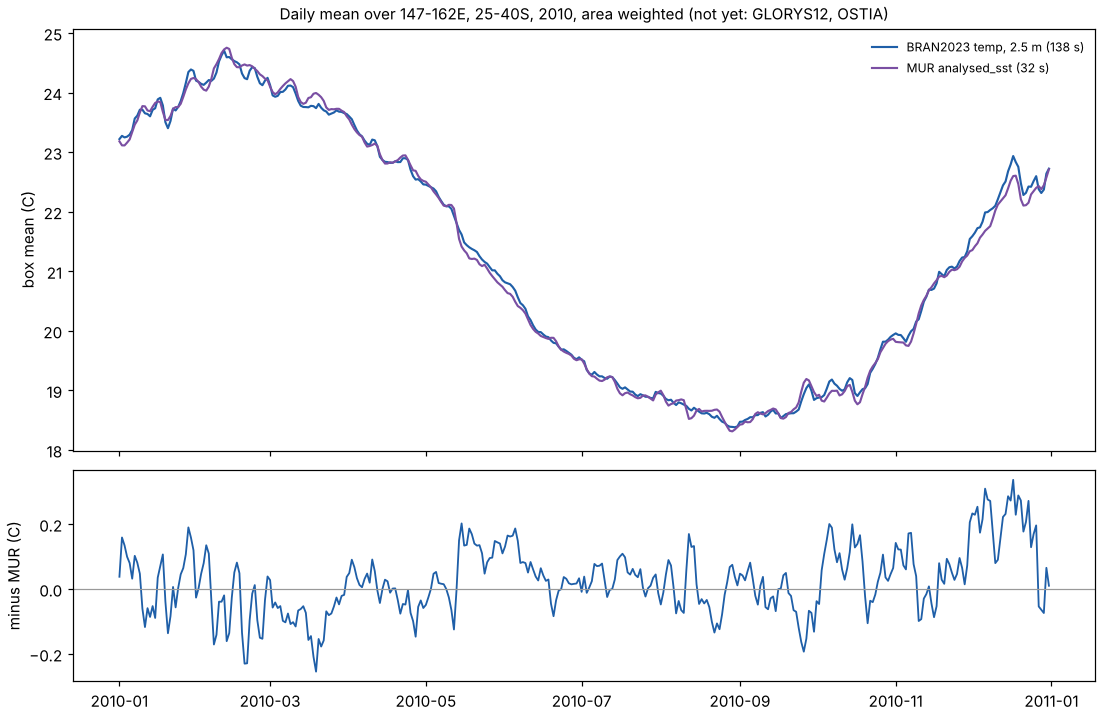
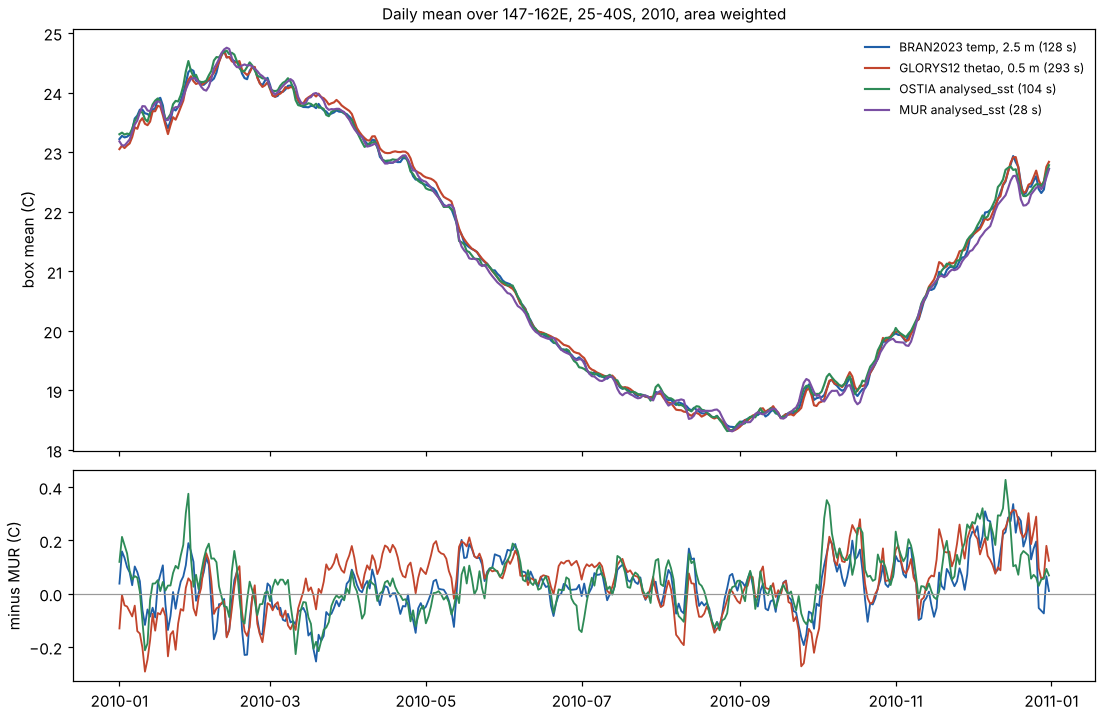
examples/cmems: GLORYS12 and OSTIA measured, live wxy/GDAL check, MUR cross-check
Runs the Copernicus Marine cuts now the ARCO endpoint is reachable.
products.py: GLORYS12 202311's vertical axis is elevation (negative,
deepest first); time decoded with ReadAsArray; one GDAL dataset per
thread (a shared one gave some days other days' values). README: store
facts (403 for absent keys, encodings), live window check identical to
GDAL for thetao, so, zos and OSTIA analysed_sst, three-way comparison
tables, costs, and the MUR cross-check against the GHRSST regional
series.

Claude-Session: https://claude.ai/code/session_01PpVmmiik3fLGUr3hGwSd5f

diff --git a/examples/cmems/products.py b/examples/cmems/products.py
@@ -13,7 +13,7 @@ Every reader returns (values, lon, lat[, depth]) as float32 in degrees C
 (or the variable's own unit), NaN where there is no ocean, with latitude
 increasing.
 """
-import os, re, sys
+import os, re, sys, threading
 from datetime import datetime, timedelta
 
 import numpy as np
@@ -117,24 +117,34 @@ def _times(arr):
     m = re.match(r"(\w+) since (.+)", units)
     step = {"seconds": 1, "minutes": 60, "hours": 3600, "days": 86400}[m.group(1)]
     origin = datetime.fromisoformat(m.group(2).strip().replace("Z", "").split(".")[0])
-    v = arr.Read()
-    return [origin + timedelta(seconds=float(s) * step) for s in np.asarray(v, "f8")]
+    v = np.asarray(arr.ReadAsArray(), "f8")
+    return [origin + timedelta(seconds=float(s) * step) for s in v]
 
 
 def arco(name):
-    """The root group of a Copernicus ARCO store and its coordinates."""
-    if name not in _arco:
+    """The root group of a Copernicus ARCO store and its coordinates, one
+    per thread: a GDAL dataset is not safe to read from two threads at once
+    (shared, a threaded series gets other days' values on some days)."""
+    key = (name, threading.get_ident())
+    if key not in _arco:
         url = CMEMS.get(name, name)
         ds = gdal.OpenEx(f'ZARR:"/vsicurl/{url}"', gdal.OF_MULTIDIM_RASTER)
         g = ds.GetRootGroup()
         co = {"ds": ds, "root": g, "url": url}
+        names = g.GetMDArrayNames()
         for k in ("longitude", "latitude", "depth"):
-            a = g.OpenMDArray(k)
-            if a is not None:
-                co[k] = np.asarray(a.ReadAsArray(), "f8")
+            if k in names:
+                co[k] = np.asarray(g.OpenMDArray(k).ReadAsArray(), "f8")
+        # GLORYS12 (202311) has no depth: its vertical axis is "elevation",
+        # negative and deepest first. Keep depth surface first, and the
+        # store's own axis name for the reads.
+        co["zdim"] = "depth"
+        if "depth" not in co and "elevation" in names:
+            co["depth"] = -np.asarray(g.OpenMDArray("elevation").ReadAsArray(), "f8")[::-1]
+            co["zdim"] = "elevation"
         co["time"] = _times(g.OpenMDArray("time"))
-        _arco[name] = co
-    return _arco[name]
+        _arco[key] = co
+    return _arco[key]
 
 
 def cmems(name, var, day, bbox, z=None):
@@ -147,9 +157,12 @@ def cmems(name, var, day, bbox, z=None):
     x0, x1 = _span(co["longitude"], bbox[0], bbox[1])
     y0, y1 = _span(co["latitude"], bbox[2], bbox[3])
     start, count = [t], [1]
-    if "depth" in dims:
+    zdim = co["zdim"] in dims
+    if zdim:
         z = z or (0, 1)
-        start.append(z[0]); count.append(z[1] - z[0])
+        nz = len(co["depth"])
+        z0 = z[0] if co["zdim"] == "depth" else nz - z[1]
+        start.append(z0); count.append(z[1] - z[0])
     start += [y0, x0]; count += [y1 - y0, x1 - x0]
     v = np.frombuffer(a.Read(array_start_idx=start, count=count,
                              buffer_datatype=gdal.ExtendedDataType.Create(gdal.GDT_Float64)),
@@ -161,7 +174,9 @@ def cmems(name, var, day, bbox, z=None):
     if var == "analysed_sst" and np.nanmean(v) > 200:
         v = v - 273.15
     v = v[0]
+    if zdim and co["zdim"] == "elevation":
+        v = v[::-1]
     lon, lat = co["longitude"][x0:x1], co["latitude"][y0:y1]
-    if "depth" in dims:
+    if zdim:
         return v, lon, lat, co["depth"][z[0]:z[1]]
     return v, lon, lat

diff --git a/examples/cmems/README.md b/examples/cmems/README.md
@@ -1,8 +1,5 @@
 # Four estimates of one sea: Copernicus Marine Zarr beside BRAN and MUR
 
-*Draft. The BRAN2023 and MUR parts below are measured; the Copernicus
-Marine parts are written and wait on network access to their store.*
-
 The Tasman Sea, where the East Australian Current sheds its eddies, is
 estimated daily by at least four public products, each served in a
 different shape:
@@ -11,7 +8,7 @@ different shape:
 |---|---|---|---|
 | BRAN2023 `temp` | CSIRO Bluelink ocean reanalysis, 0.1 degree, 51 levels | netCDF4 on NCI THREDDS, addressed by an mdim-refs byte table | [`../bran/bran_table.py`](../bran/bran_table.py): Parquet, range requests, zlib |
 | GHRSST MUR v4.1 `analysed_sst` | JPL foundation SST analysis, 0.01 degree | daily COGs on source.coop (ZSTD, horizontal predictor) | osgeo.gdal over `/vsicurl/` |
-| GLORYS12 `thetao`, `so` | Copernicus Marine global physics reanalysis, 1/12 degree, 50 levels (`GLOBAL_MULTIYEAR_PHY_001_030`) | ARCO Zarr v2, `timeChunked.zarr` | osgeo.gdal multidim on `ZARR:"/vsicurl/..."`; wxy |
+| GLORYS12 `thetao`, `so` | Copernicus Marine global physics reanalysis, 1/12 degree, 50 levels (`GLOBAL_MULTIYEAR_PHY_001_030`) | ARCO Zarr v2, `timeChunked.zarr` | osgeo.gdal multidim on `ZARR:"/vsicurl/..."`; wxy (window check) |
 | OSTIA `analysed_sst` | Met Office SST reanalysis, 0.05 degree (`SST_GLO_SST_L4_REP_OBSERVATIONS_010_011`) | ARCO Zarr v2, `timeChunked.zarr` | as GLORYS12 |
 
 The region is 147-162E, 40-25S, and the year 2010 (the year the BRAN
@@ -32,27 +29,68 @@ The bucket number varies by dataset. The catalogue of URLs here comes from
 the R package [cmemsarco](https://github.com/hypertidy/cmemsarco), which
 builds it from the Copernicus Marine STAC catalogue and also gives the
 GDAL source string for each store. Nothing needs to list the bucket: GDAL,
-zarr-python and wxy all go from the root URL to `.zmetadata` and then to
+zarr-python and wxy all go from the root URL to metadata and then to
 chunk keys by the Zarr spec.
 
+The two stores used here, as they are on the endpoint (October 2026):
+
+| Store | Array | Shape | Chunk | Encoding |
+|---|---|---|---|---|
+| GLORYS12 `cmems_mod_glo_phy_my_0.083deg_P1D-m_202311` | `thetao`, `so` | time 12318 (1993-01-01 to 2026-09-22), elevation 50, latitude 2041, longitude 4320 | 1, 1, 512, 2048 | int16, scale and offset, blosc lz4 with shuffle |
+| | `zos` | time, latitude, longitude | 1, 512, 2048 | as above |
+| OSTIA `METOFFICE-GLO-SST-L4-REP-OBS-SST_202003` | `analysed_sst` | time 16344 (1981-10-01 to 2026-06-30), latitude 3600, longitude 7200 | 1, 1024, 1024 | as above, kelvin |
+
+Two things about these stores matter to a reader:
+
+- **A missing key is 403, not 404.** A bucket that refuses listing
+  answers "access denied" for a key it does not hold. A Zarr v3 reader
+  probes `zarr.json` first; on these v2 stores that probe is refused, and
+  a reader that takes 403 as an error stops there. GDAL reads the 403 as
+  absent (it warns, then goes on to the v2 metadata). wxy did not, and
+  failed to open either store until it learned the same rule (wxylib/core
+  PR #18). A chunk that was never written is also a 403.
+- **GLORYS12's vertical axis is `elevation`, not `depth`.** It is
+  negative and deepest first: index 0 is 5728 m, index 49 is the 0.49 m
+  surface level. [`products.py`](products.py) turns it into a depth
+  axis, surface first, and reads the reversed index range.
+
+### wxy against GDAL on the live stores
+
 wxy reads such a store by URL (`wxy_zarr::open_url`), and `wxy warp`,
-`points` and `zonal` take the URL as their source. A window check against
-GDAL, as for the BRAN and MUR stores:
+`points` and `zonal` take the URL as their source. The window check, as
+for the BRAN and MUR stores, records GDAL's SHA-256 of the raw values in
+each window, then compares wxy's:
 
 ```sh
-# GDAL's hashes of two windows (wxylib/fixtures)
-python scripts/oracle_zarr_windows.py $GLORYS thetao glorys-thetao.json
+# GDAL's hashes (wxylib/fixtures); with no window given, two defaults
+python scripts/oracle_zarr_windows.py $GLORYS thetao glorys-thetao.json \
+  tasman-surface:6223,49,480,3924:1,1,181,181 \
+  tasman-78m:6223,29,480,3924:1,1,181,181
 # wxy's, compared (wxylib/core)
 cargo run --release -p wxy-zarr --example zarr_windows -- $GLORYS \
   --manifest glorys-thetao.json
 ```
 
-On a local Zarr v2 store written by xarray in the ARCO layout (blosc,
-NaN fill, consolidated, served over HTTP) both windows are identical to
-GDAL's. Two gaps showed up getting there, both closed: wxy ignored the
-`_ARRAY_DIMENSIONS` attribute that names the dimensions of a Zarr v2
-array, so it found no longitude or latitude to place the array by, and it
-had no way to open a Zarr hierarchy by URL.
+With GDAL 3.13.3, every window is identical:
+
+| Store | Array | Windows (all identical to GDAL) |
+|---|---|---|
+| GLORYS12 | `thetao`, `so` | first chunk; one row at the last time step; the Tasman box (181 x 181, four chunks) at 0.49 m and at 78 m on 15 January 2010 |
+| GLORYS12 | `zos` | first chunk; last-time row; Tasman box |
+| OSTIA | `analysed_sst` | first chunk; last-time row; Tasman box (301 x 301, two chunks) |
+
+The default windows of `thetao` and `so` hash the same, because both are
+all fill: they sit at the deepest level, under the Antarctic shelf. The
+Tasman windows are the ones that carry data. wxy opens each store in
+about 5 s (metadata and the coordinate arrays) and reads a four-chunk
+window in about 1.4 s.
+
+Before the live stores were reachable, the same check ran on a local
+Zarr v2 store written by xarray in the ARCO layout (blosc, NaN fill,
+consolidated, served over HTTP). Two gaps showed up there, both closed:
+wxy ignored the `_ARRAY_DIMENSIONS` attribute that names the dimensions
+of a Zarr v2 array, so it found no longitude or latitude to place the
+array by, and it had no way to open a Zarr hierarchy by URL.
 
 ## Running it
 
@@ -67,35 +105,83 @@ values, longitude and latitude (and depth) for a box and a day;
 some of them). BRAN needs the store's read settings, as in
 [the BRAN example](../bran/README.md).
 
+Each product's reads are made from several threads. A GDAL dataset must
+not be shared between threads, so `products.py` opens each ARCO store
+once per thread; shared, a threaded series silently took some days'
+values from other days.
+
 ## 1. One day
 
 ![Surface temperature on 15 January 2010 in each product, and each minus MUR](maps.png)
 
-BRAN's top level (2.5 m) and MUR's foundation temperature agree to
--0.02 C over the box, with a spread of 0.49 C. The differences are
-eddy-shaped: a reanalysis places the EAC's eddies close to where the
-observations put them, not exactly there, and an eddy displaced by a few
-tens of kilometres leaves a dipole of plus and minus a degree or two.
-MUR's 0.01 degree grid shows filaments that a 0.1 degree model cannot
-hold.
+Over the box, each product minus MUR:
 
-Cost: BRAN, 2 chunks (125 kB) in 8 s; MUR, the full-resolution
-1501 x 1501 window in 1.6 s.
+| Product | Cells | Mean | Spread (sd) |
+|---|---|---|---|
+| BRAN2023, 2.5 m | 150 x 150 | -0.02 C | 0.49 C |
+| GLORYS12, 0.49 m | 181 x 181 | -0.08 C | 0.62 C |
+| OSTIA | 300 x 300 | +0.07 C | 0.43 C |
+
+The differences from the two reanalyses are eddy-shaped: a reanalysis
+places the EAC's eddies close to where the observations put them, not
+exactly there, and an eddy displaced by a few tens of kilometres leaves a
+dipole of plus and minus a degree or two. GLORYS12's eddies are sharper
+than BRAN's (finer grid), so its displaced fronts leave stronger dipoles.
+OSTIA is itself an analysis of observations and differs from MUR in
+smaller, noisier patches. MUR's 0.01 degree grid shows filaments that
+none of the others can hold.
+
+Cost: BRAN, 2 chunks (125 kB), 8 to 28 s across runs from THREDDS;
+GLORYS12, 4 chunks (about 2.5 MB) in 10 s; OSTIA, 2 chunks (about 1.4 MB)
+in 5 s; MUR, the full-resolution 1501 x 1501 window in 1.2 s.
 
 ## 2. A year of the box mean
 
 ![Daily box mean through 2010 for each product, and each minus MUR](series.png)
 
-The box-mean BRAN and MUR curves differ by 0.03 C on average, with a
-day-to-day spread of 0.10 C, and by up to 0.3 C in early summer. A likely part of that is a
-shallow warm layer, which a 2.5 m model level can see and a foundation
-temperature (defined to be free of the daily warm layer) does not; the
-OSTIA and GLORYS12 curves will show whether it is the models or MUR. Each mean is
-cos(latitude) weighted over that product's own ocean cells, so the coasts
-differ slightly.
+All four curves follow one seasonal cycle, from 24.7 C in February to
+18.3 C in late August. Each minus MUR, over the 365 days:
 
-Cost: BRAN, 730 chunks (46 MB) in 138 s from THREDDS; MUR, 365 reads at
-0.1 degree, which GDAL serves from each COG's overviews, in 32 s.
+| Product | Mean | Day-to-day sd | Range | Dec-Feb mean | Jun-Aug mean |
+|---|---|---|---|---|---|
+| BRAN2023 | +0.03 C | 0.10 C | -0.25 to +0.34 | +0.06 | +0.03 |
+| GLORYS12 | +0.05 C | 0.12 C | -0.29 to +0.31 | +0.02 | +0.03 |
+| OSTIA | +0.05 C | 0.11 C | -0.23 to +0.43 | +0.10 | +0.03 |
+
+GLORYS12 minus BRAN is +0.02 C (sd 0.09), and OSTIA minus GLORYS12 is
+0.00 C (sd 0.11): the three agree with each other more closely than any
+of them agrees with MUR. MUR runs cool by a few hundredths of a degree
+all year, and by 0.10 to 0.15 C in October to December, when all three rise
+above it together. The earlier guess, that a shallow warm layer
+seen by a 2.5 m model level explains the summer gap, does not hold on
+its own: OSTIA, a foundation temperature analysis like MUR, shows the
+same gap. Part of the offset is in how MUR is read here (see the
+cross-check below). Each mean is cos(latitude) weighted over that
+product's own ocean cells, so the coasts differ slightly.
+
+Cost: BRAN, 730 chunks (46 MB) in 128 s from THREDDS; GLORYS12, 1460
+chunks (about 0.9 GB) in 290 s; OSTIA, 730 chunks (about 0.5 GB) in
+104 s; MUR, 365 reads at 0.1 degree, which GDAL serves from each COG's
+overviews, in 28 s. A map-chunked store makes a box series pay for whole
+512 x 2048 chunks to use a 181 x 181 corner of each; the geoChunked
+stores are built for this read.
+
+### MUR cross-check against the GHRSST regional series
+
+The GHRSST COG store work keeps a daily regional series from the same
+COGs (`regional_daily.csv`, region `eac_147e_162e`, the same box), read
+at overview level 4 by nearest cell centre. Over 2010, this page's MUR
+series (0.1 degree, GDAL average) minus that series is -0.044 C, with a
+day-to-day sd of 0.008 C, a largest difference of 0.064 C, and a
+correlation of 1.0000. The offset is the read resolution, not the data.
+On 15 January the box mean at full resolution is 23.808 C; read at 0.02,
+0.04, 0.08 and 0.16 degree it is 23.811, 23.815, 23.826 and 23.853 C; at
+0.1 degree, as here, 23.827 C; and the regional series has 23.867 C.
+Coarser reads let warmer offshore cells stand for the cool coastal
+strip, so the mean drifts up as the cells get bigger. Against the
+full-resolution mean, this page's MUR series is about 0.02 C warm, and
+MUR's gap to the other three is smaller than the table shows by that
+much.
 
 ## 3. A section across the current
 
@@ -103,17 +189,21 @@ Cost: BRAN, 730 chunks (46 MB) in 138 s from THREDDS; MUR, 365 reads at
 
 At 34S, in BRAN, a warm core sits off the shelf near 152.5E, its
 isotherms pushed down to 400 m and more, and they rise again to the east
-near 154E: the EAC and its eddies in one slice. BRAN's section is 40
-levels of 2 chunks each (3.6 MB) for 80 columns of one row, in 5 s. The GLORYS12 panels add salinity, the second
-variable of the comparison: the BRAN reference store holds temperature
-only.
+near 154E: the EAC and its eddies in one slice. GLORYS12 has the same
+dome of cold water, near 154.3E, a little east of BRAN's. Its salinity
+panel shows the dome as a column of fresher water drawn up from below
+500 m, as in a cold-core (cyclonic) eddy. The BRAN reference store holds temperature only.
+
+Cost: BRAN, 40 levels of 2 chunks each (3.6 MB) for 80 columns of one
+row, in 4 s. GLORYS12, 36 levels of one chunk each per variable (about
+1 MB each) for 97 columns of one row: `thetao` in 71 s and `so` in
+41 s. The same pattern as the series: the ARCO time chunks are built for
+whole maps, and a section uses a sliver of each.
 
 ## Still to run
 
-- GLORYS12 and OSTIA cuts (`python fetch.py glorys ostia`), once the
-  Copernicus Marine endpoint is reachable from where this runs, and the
-  GDAL/wxy window check on the live GLORYS12 store.
 - The same reads through xarray: `xarray.open_zarr` on the ARCO URL, and
   GDAL's xarray backend on the same `ZARR:` source string.
-- Sea surface height (GLORYS12 `zos`) and the geoChunked stores for the
-  point time series, where their chunking is the point.
+- The geoChunked stores for the box series and the section, where their
+  chunking is the point, against the timings above.
+- GLORYS12 `zos` (sea surface height) maps beside the EAC eddies.
